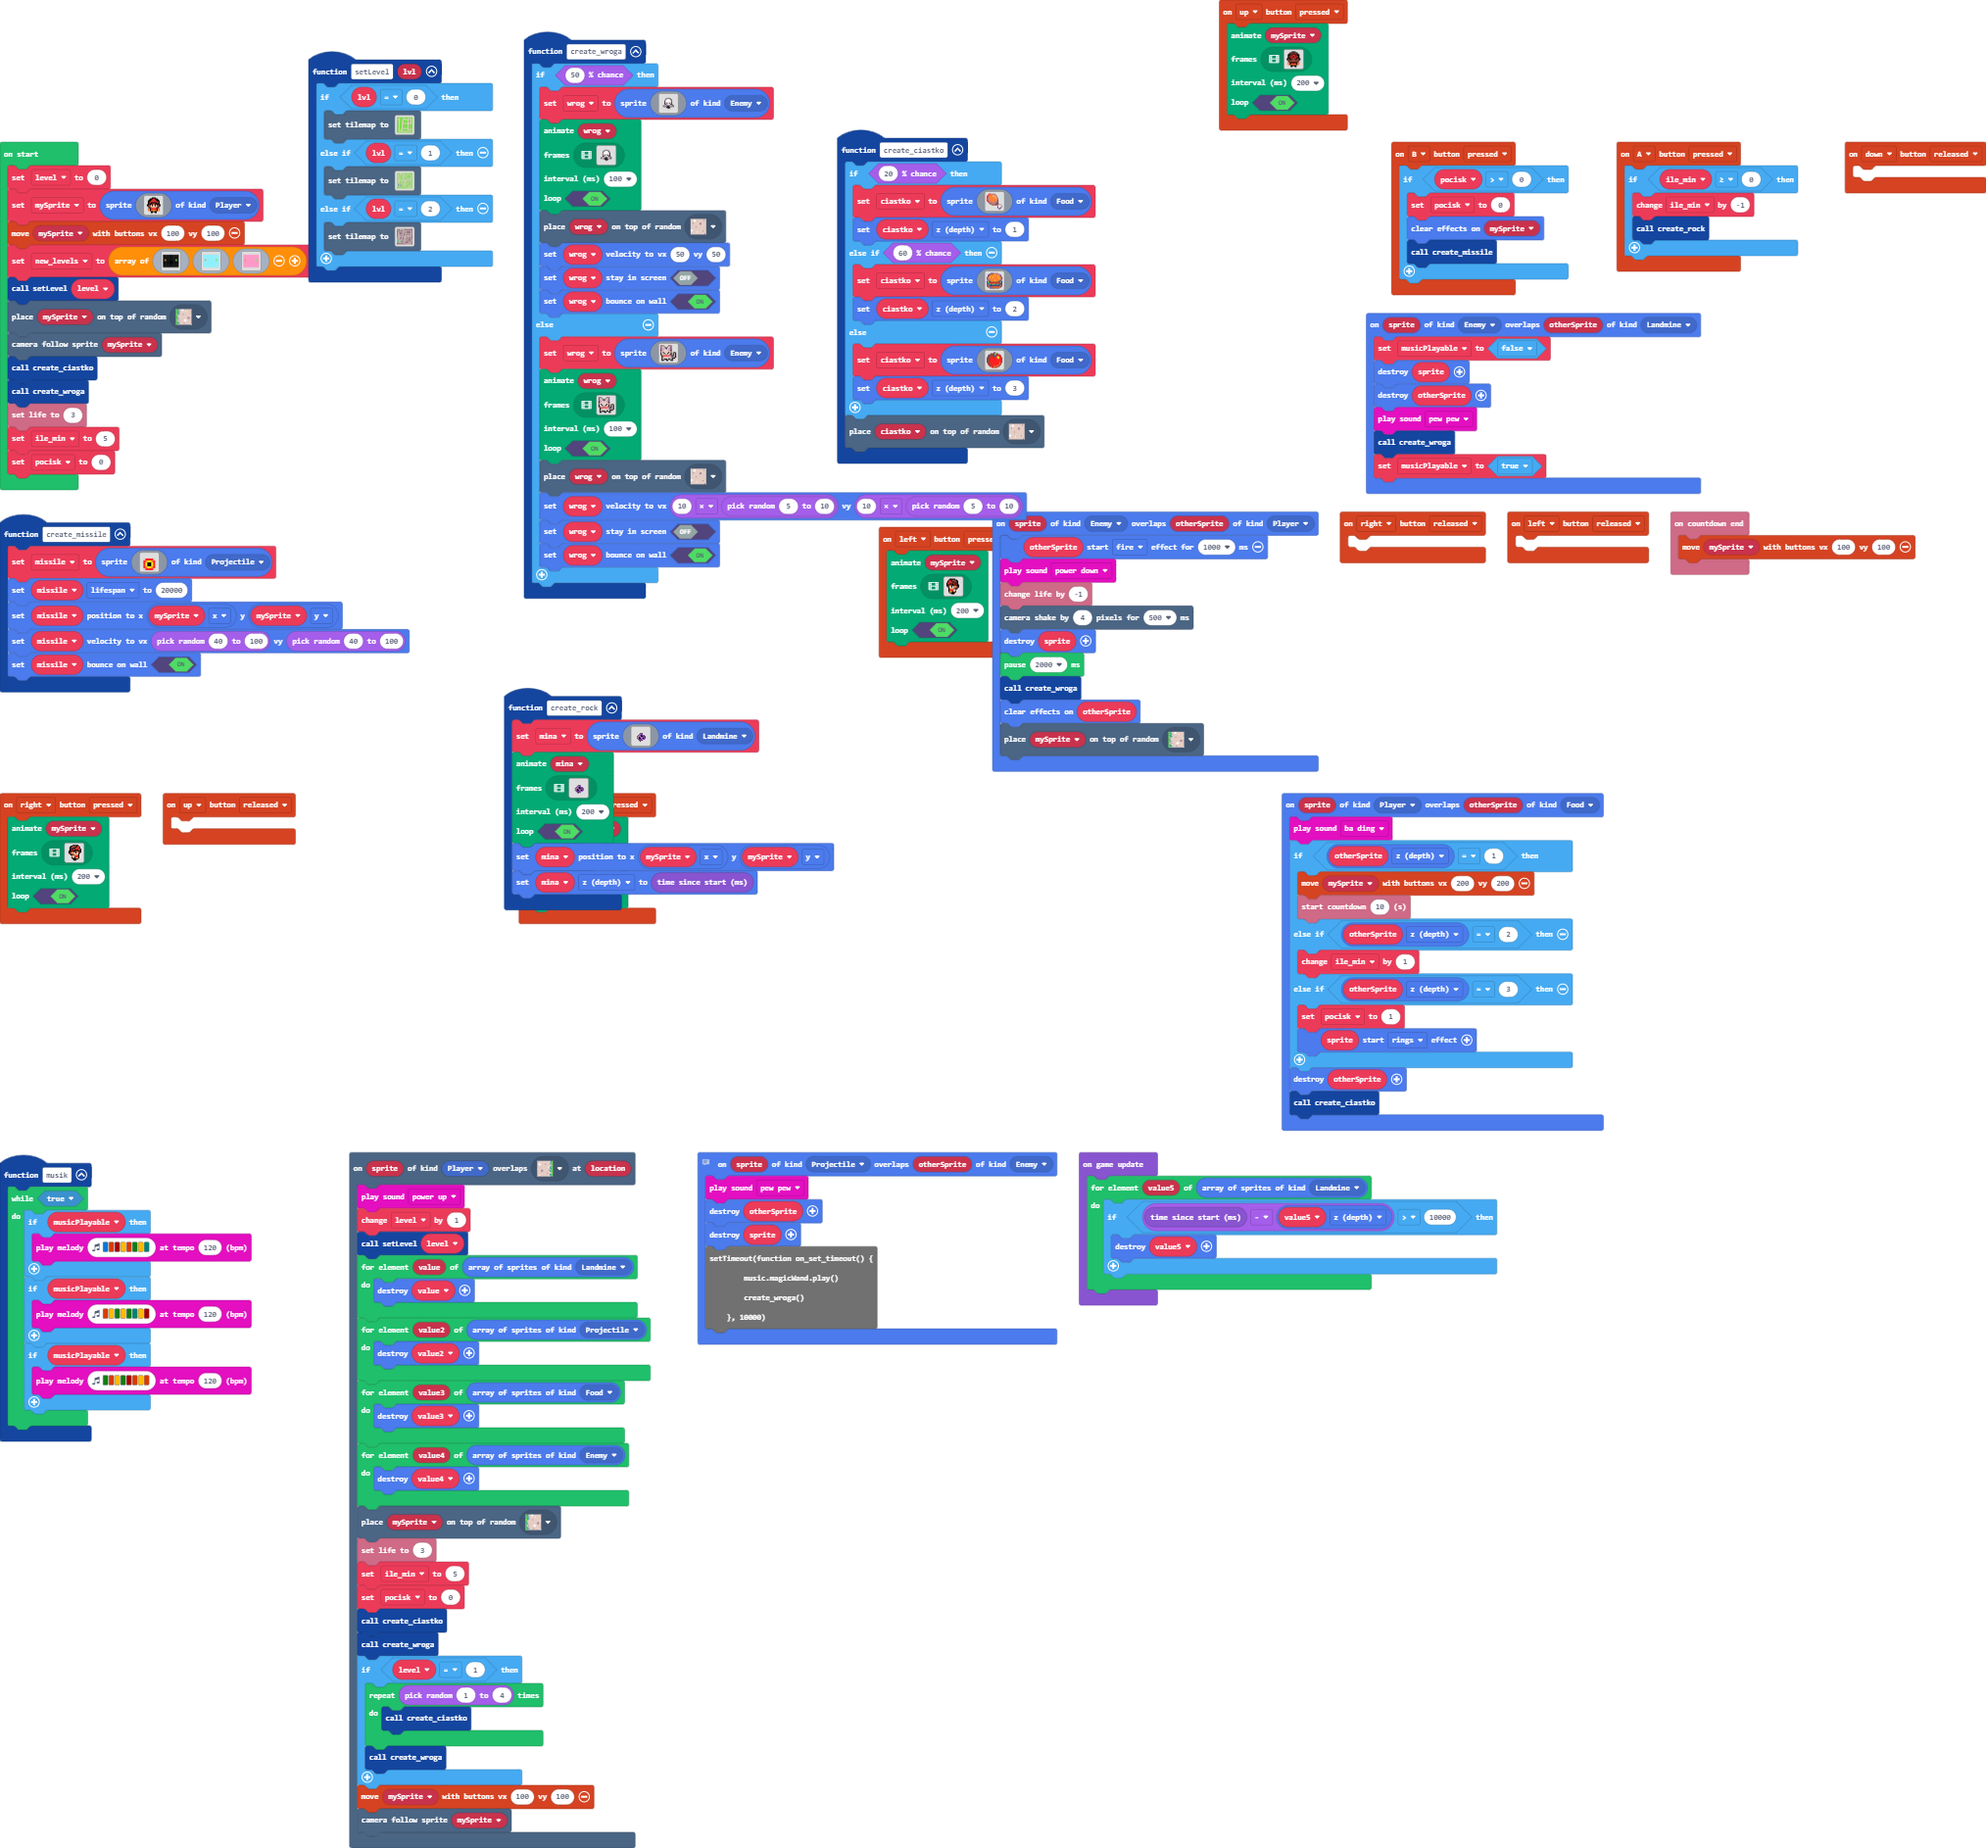
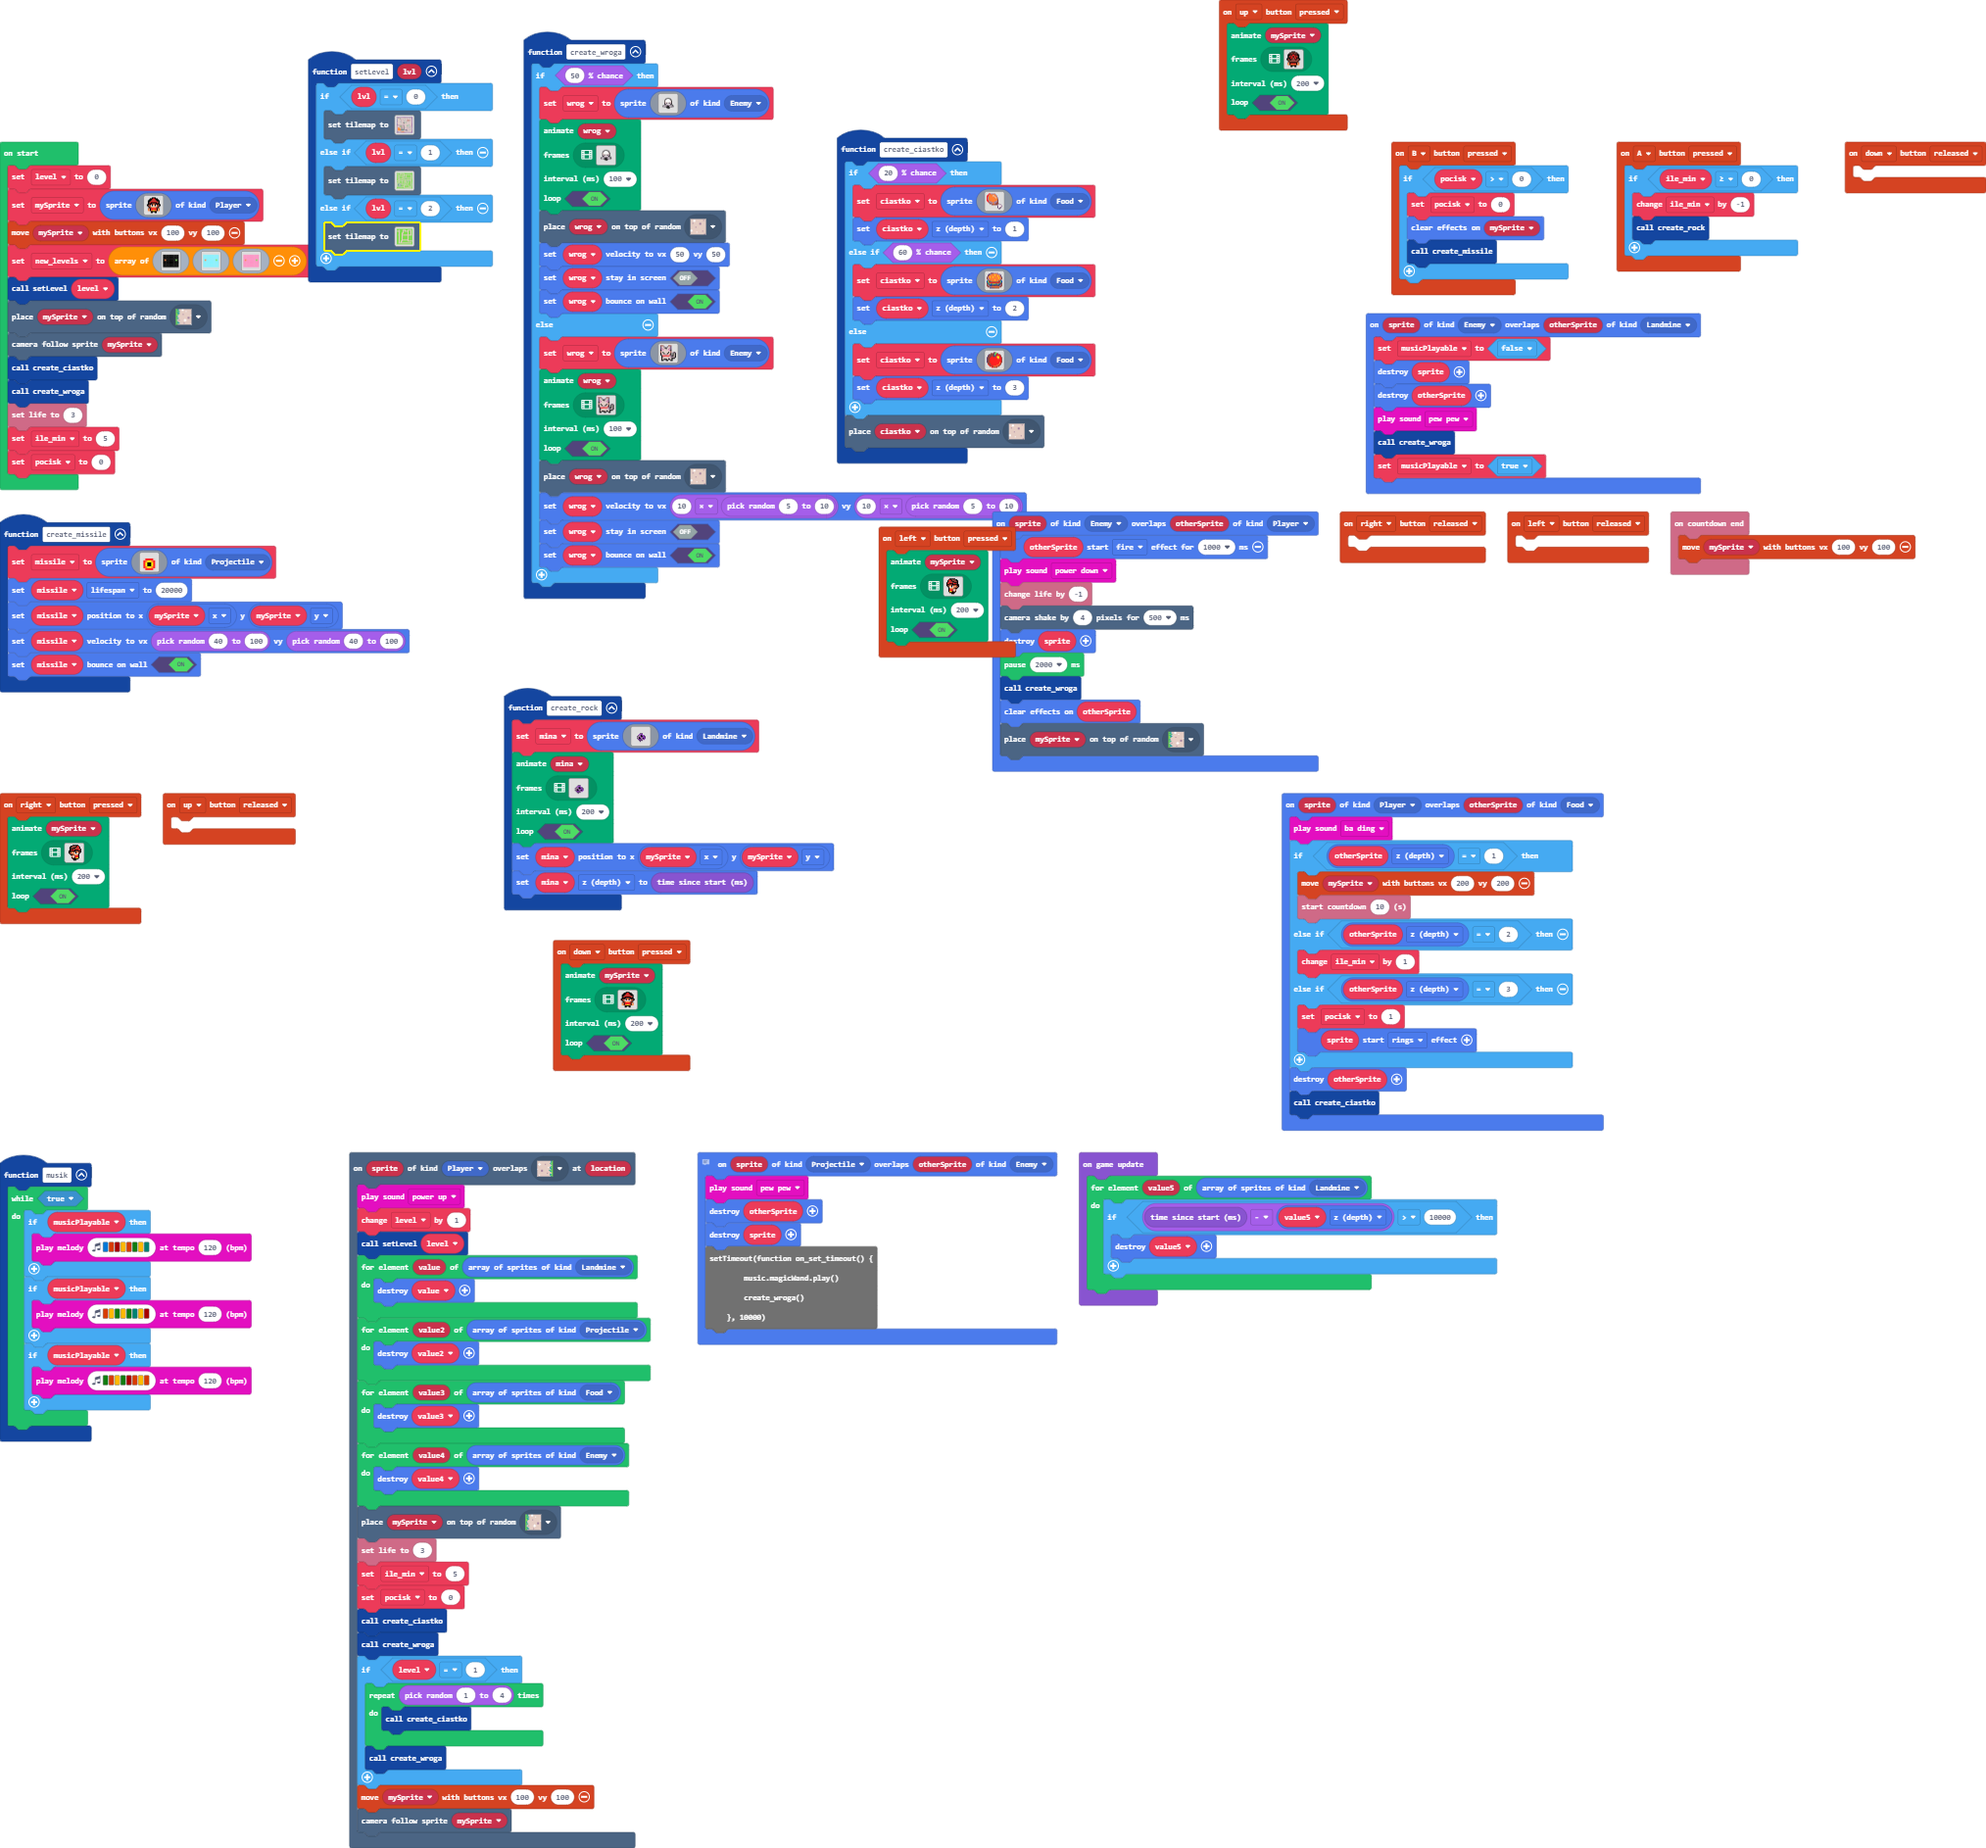
-Moja mapeczka

diff --git a/tilemap.g.ts b/tilemap.g.ts
@@ -256,40 +256,40 @@ namespace myTiles {
 222222222222222222222222222222
 `, [myTiles.transparency16,sprites.castle.tilePath4,sprites.builtin.forestTiles0,sprites.builtin.forestTiles26,sprites.builtin.forestTiles6,sprites.builtin.forestTiles12,sprites.builtin.forestTiles16,sprites.builtin.forestTiles4,sprites.castle.tilePath6,sprites.dungeon.darkGroundCenter,sprites.dungeon.chestOpen,sprites.dungeon.collectibleInsignia,sprites.dungeon.doorLockedSouth,sprites.dungeon.doorLockedEast,sprites.dungeon.doorLockedNorth,sprites.dungeon.floorLight0,sprites.dungeon.floorLight1,sprites.dungeon.floorLightMoss,sprites.dungeon.floorLight3,sprites.dungeon.floorDark1,sprites.dungeon.floorDark3,sprites.dungeon.floorDark5,sprites.dungeon.greenOuterNorthWest,sprites.dungeon.greenOuterNorth0,sprites.dungeon.greenOuterNorthEast,sprites.dungeon.greenOuterEast0,sprites.dungeon.greenOuterWest1,sprites.dungeon.greenOuterSouthEast,sprites.dungeon.greenOuterSouthWest,sprites.dungeon.greenOuterSouth0,sprites.dungeon.greenOuterSouth1,sprites.dungeon.greenOuterNorth2], TileScale.Sixteen);
             case "level_Michal":
[2 lines of base64/hex data omitted]
 222222222222222222222222222222
-22.222...22....222222222222222
-...222.2....22.222222222222222
+22.222...22....222222222222.22
+...222.2....22.22222222222..22
 22.222.2222.22..............22
-22.22..2222.22.222.22222222.22
-22.22.22222.22.222.22222222.22
-22.22..........222.22222222.22
-22.22.22222.222222.22222222.22
-22.22.22222.222222.22222222.22
-22.22.22222.................22
-22.22.22222.222222222222222.22
-22.22.......222222222222222.22
-22.2..22222.................22
-22.2.2222222222.22222222222.22
+22.....2222.22.222.22222222.22
+22....22222.22.222.22222222.22
+22.............222.22222222.22
+22....22222.222222.22222222.22
+22....22222.222222.22222222.22
+22....22222.................22
+22....22222.2222...2222..22.22
+22..........222222222...222.22
+22....22222.................22
+22...2222222222.22222222222.22
 2...........................22
-2.22222222.2222.222222.2222.22
-2.....2222.22......222.2222.22
-22222.2222.22.2.22.222.2222.22
-2.....2222.22.2.22.222.2222.22
+2222222222.2222.222222.2222.22
+2.....2222.22......222....2.22
+22222..2...22.2.22........2.22
+2........2.22.2.22.222.2....22
 2.22222222.22.2.22.222.2222.22
-2..........22.2.22.....2222.22
-2.22222.22222.2.22222222222.22
-2.22..2.......2.22222222222...
-2.22.22.222222..........222.22
-2.2.....222222.22222222.222.22
-2.222222222222.22222222.222.22
-2..............22222222.....22
-22222222222222.222222222222.22
-22222222222222..............22
+2.222......22.2.22.....2222.22
+2.22222.22222.2.22222222..2.22
+2.22222.......2.2222222..22.2.
+2.2222222222222.........222.22
+2.22222222222222.....22.222.22
+2.222222222222.222......222.22
+2..222.........22222222.....22
+22...2.2222222.222222222222.22
+2222...2222222..............22
 222222222222222222222222222222
-`, [myTiles.transparency16,sprites.castle.tilePath4,sprites.builtin.forestTiles0,sprites.builtin.forestTiles26,sprites.builtin.forestTiles6,sprites.builtin.forestTiles12,sprites.builtin.forestTiles16,sprites.builtin.forestTiles4,sprites.castle.tilePath6,sprites.dungeon.darkGroundCenter,sprites.dungeon.chestOpen,sprites.dungeon.collectibleInsignia,sprites.dungeon.doorLockedSouth,sprites.dungeon.doorLockedEast,sprites.dungeon.doorLockedNorth,sprites.dungeon.floorLight0,sprites.dungeon.floorLight1,sprites.dungeon.floorLightMoss,sprites.dungeon.floorLight3,sprites.dungeon.floorDark1,sprites.dungeon.floorDark3,sprites.dungeon.floorDark5,sprites.dungeon.greenOuterNorthWest,sprites.dungeon.greenOuterNorth0,sprites.dungeon.greenOuterNorthEast,sprites.dungeon.greenOuterEast0,sprites.dungeon.greenOuterWest1,sprites.dungeon.greenOuterSouthEast,sprites.dungeon.greenOuterSouthWest,sprites.dungeon.greenOuterSouth0,sprites.dungeon.greenOuterSouth1,sprites.dungeon.greenOuterNorth2], TileScale.Sixteen);
+`, [myTiles.transparency16,sprites.castle.tilePath4,sprites.builtin.forestTiles0,sprites.builtin.forestTiles26,sprites.builtin.forestTiles6,sprites.builtin.forestTiles12,sprites.builtin.forestTiles16,sprites.castle.tilePath6,sprites.dungeon.chestOpen,sprites.dungeon.collectibleInsignia,sprites.dungeon.doorLockedSouth,sprites.dungeon.doorLockedEast,sprites.dungeon.doorLockedNorth,sprites.dungeon.floorLight0,sprites.dungeon.floorLight1,sprites.dungeon.floorLightMoss,sprites.dungeon.floorLight3,sprites.dungeon.floorDark1,sprites.dungeon.floorDark3,sprites.dungeon.floorDark5,sprites.dungeon.greenOuterNorthWest,sprites.dungeon.greenOuterNorth0,sprites.dungeon.greenOuterNorthEast,sprites.dungeon.greenOuterEast0,sprites.dungeon.greenOuterWest1,sprites.dungeon.greenOuterSouthEast,sprites.dungeon.greenOuterSouthWest,sprites.dungeon.greenOuterSouth0,sprites.dungeon.greenOuterSouth1,sprites.dungeon.greenOuterNorth2,sprites.castle.tilePath5,sprites.dungeon.chestClosed,sprites.dungeon.purpleOuterSouthWest,sprites.dungeon.purpleOuterSouthEast,sprites.dungeon.purpleOuterNorthWest,sprites.dungeon.purpleOuterNorthEast,sprites.dungeon.purpleOuterWest0,sprites.dungeon.purpleOuterSouth1,sprites.dungeon.purpleOuterEast0,sprites.dungeon.purpleOuterNorth1,sprites.dungeon.floorLight5,sprites.builtin.crowd0,sprites.dungeon.hazardLava0,sprites.dungeon.hazardLava1,sprites.dungeon.doorOpenEast,sprites.dungeon.darkGroundSouthEast1,sprites.dungeon.floorLight4,sprites.dungeon.floorDarkDiamond,sprites.castle.tilePath2,sprites.builtin.forestTiles2], TileScale.Sixteen);
             case "level_Kuba":
[2 lines of base64/hex data omitted]
 222222222222222222222222222222
 22.222...22....222222222222222
 ...222.2....22.222222222222222

diff --git a/main.ts b/main.ts
@@ -3,11 +3,11 @@ namespace SpriteKind {
 }
 function setLevel (lvl: number) {
     if (lvl == 0) {
-        tiles.setTilemap(tilemap`level1`)
+        tiles.setTilemap(tilemap`level_Michal`)
     } else if (lvl == 1) {
         tiles.setTilemap(tilemap`level2`)
     } else if (lvl == 2) {
-        tiles.setTilemap(tilemap`level0`)
+        tiles.setTilemap(tilemap`level1`)
     }
 }
 function create_wroga () {
